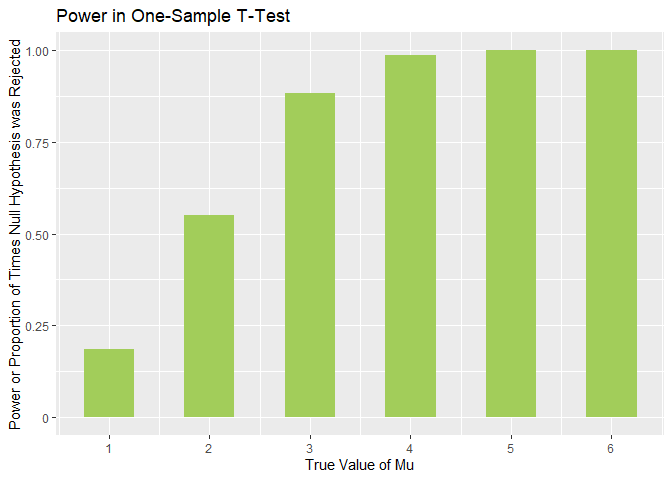
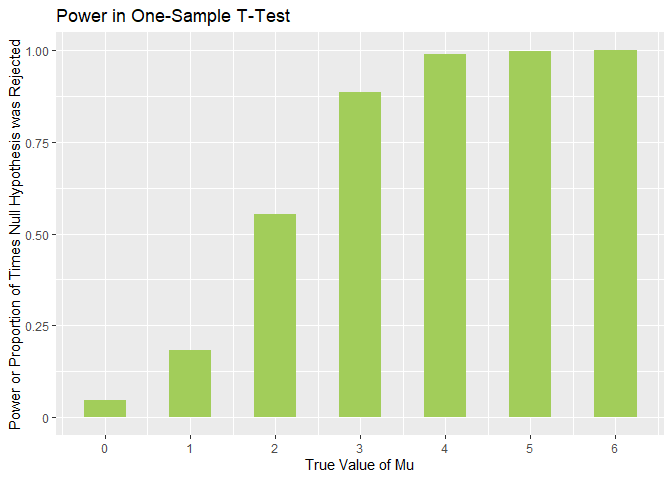
- made small edits to problem 3 simulation dataframe for mu = zero

diff --git a/p8105_hw5_vd2407.md b/p8105_hw5_vd2407.md
@@ -280,21 +280,9 @@ sim_power = function(mu) {
 ```
 
 ``` r
-sim_mu_zero_df =
-  expand_grid(
-    mu_input = 0,
-    iter = 1:5000
-  ) %>% 
-  mutate(
-    estimate_mu_zero_df = map(mu_input, sim_power)
-  ) %>% 
-  unnest(estimate_mu_zero_df) 
-```
-
-``` r
 sim_mu_df =
   expand_grid(
-    mu_input = 1:6,
+    mu_input = 0:6,
     iter = 1:5000
   ) %>% 
   mutate(
@@ -332,12 +320,13 @@ sim_mu_plot_df %>%
 
 | mu_input | num_null_rej | total | mean_mu_hat | mean_mu_hat_null_rej | proportion_null_rej |
 |---------:|-------------:|------:|------------:|---------------------:|--------------------:|
-|        1 |          918 |  5000 |   0.9993993 |             2.230856 |              0.1836 |
-|        2 |         2793 |  5000 |   2.0085948 |             2.630322 |              0.5586 |
-|        3 |         4419 |  5000 |   3.0122094 |             3.210226 |              0.8838 |
-|        4 |         4938 |  5000 |   3.9768341 |             4.006204 |              0.9876 |
-|        5 |         4998 |  5000 |   4.9954443 |             4.996700 |              0.9996 |
-|        6 |         5000 |  5000 |   6.0103715 |             6.010371 |              1.0000 |
+|        0 |          225 |  5000 |   0.0162294 |           -0.0739825 |              0.0450 |
+|        1 |          909 |  5000 |   0.9873785 |            2.2538126 |              0.1818 |
+|        2 |         2771 |  5000 |   2.0029104 |            2.6338341 |              0.5542 |
+|        3 |         4436 |  5000 |   3.0039898 |            3.1934028 |              0.8872 |
+|        4 |         4955 |  5000 |   4.0139970 |            4.0352240 |              0.9910 |
+|        5 |         4998 |  5000 |   4.9841257 |            4.9853731 |              0.9996 |
+|        6 |         5000 |  5000 |   5.9992839 |            5.9992839 |              1.0000 |
 
 ``` r
 sim_mu_plot_df %>% 
@@ -349,8 +338,8 @@ sim_mu_plot_df %>%
     y = "Power or Proportion of Times Null Hypothesis was Rejected"
   ) +
   scale_x_continuous(
-    breaks = c(1, 2, 3, 4, 5, 6),
-    labels = c("1", "2", "3", "4", "5", "6")
+    breaks = c(0, 1, 2, 3, 4, 5, 6),
+    labels = c("0", "1", "2", "3", "4", "5", "6")
   ) +
   scale_y_continuous(
     breaks = c(0.00, 0.25, 0.50, 0.75, 1.00),
@@ -358,7 +347,7 @@ sim_mu_plot_df %>%
   ) 
 ```
 
-<img src="p8105_hw5_vd2407_files/figure-gfm/unnamed-chunk-11-1.png" style="display: block; margin: auto;" />
+<img src="p8105_hw5_vd2407_files/figure-gfm/unnamed-chunk-10-1.png" style="display: block; margin: auto;" />
 
 The effect size can be described here as the difference between the true
 value of mu and the null hypothesis that mu is equal to zero.
@@ -377,12 +366,12 @@ sim_mu_plot_df %>%
     y = "Average Estimate of the Mean"
   ) +
   scale_x_continuous(
-    breaks = c(1, 2, 3, 4, 5, 6),
-    labels = c("1", "2", "3", "4", "5", "6")
+    breaks = c(0, 1, 2, 3, 4, 5, 6),
+    labels = c("0", "1", "2", "3", "4", "5", "6")
   ) 
 ```
 
-<img src="p8105_hw5_vd2407_files/figure-gfm/unnamed-chunk-12-1.png" style="display: block; margin: auto;" />
+<img src="p8105_hw5_vd2407_files/figure-gfm/unnamed-chunk-11-1.png" style="display: block; margin: auto;" />
 The sample average of mu hat across tests for which the null is rejected
 is approximately equal to the true value of mu only when the true value
 of mu is greater than or equal to 4. Otherwise, the sample average of mu
